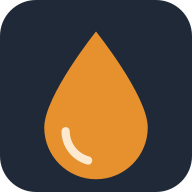
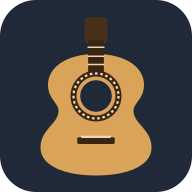
Ícono nuevo: guitarra clásica con roseta (v0.1.2)

diff --git a/app.js b/app.js
@@ -1,7 +1,7 @@
 /* Núcleo de la app: registro de módulos, solapas, utilidades comunes.
    Cada módulo se registra con App.register({ id, title, icon, status?, render(root) }). */
 const App = (() => {
-  const VERSION = "0.1.1";
+  const VERSION = "0.1.2";
   const modules = [];
   const STORAGE_TAB = "taller:tab";
 

diff --git a/sw.js b/sw.js
@@ -1,6 +1,6 @@
 /* Service worker: cachea la app completa para funcionar sin conexión.
    IMPORTANTE: subir CACHE_VERSION en cada release para que los clientes actualicen. */
-const CACHE_VERSION = "taller-v0.1.1";
+const CACHE_VERSION = "taller-v0.1.2";
 const ASSETS = [
   "./",
   "./index.html",
